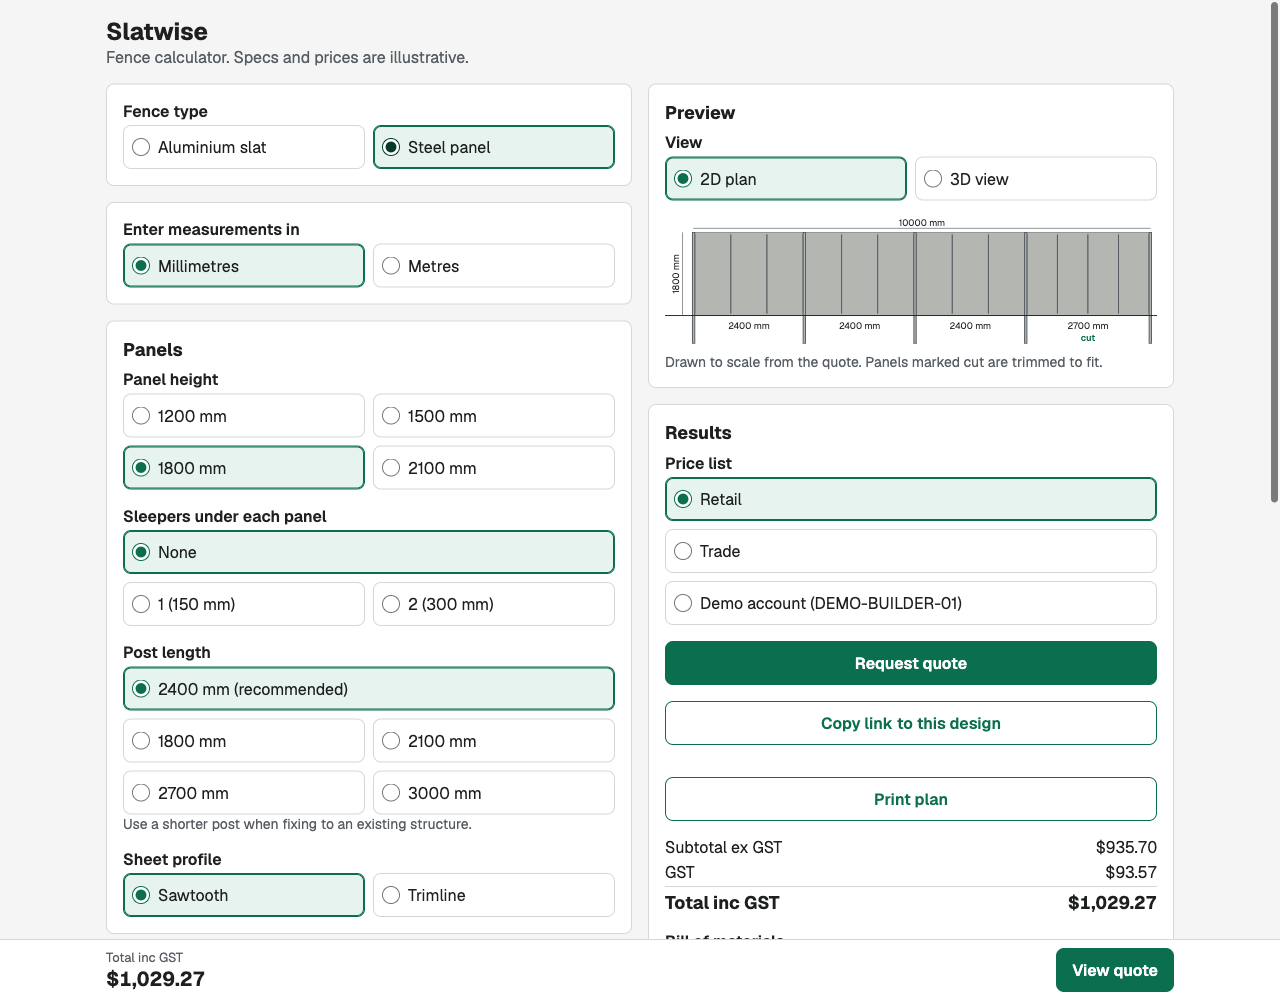
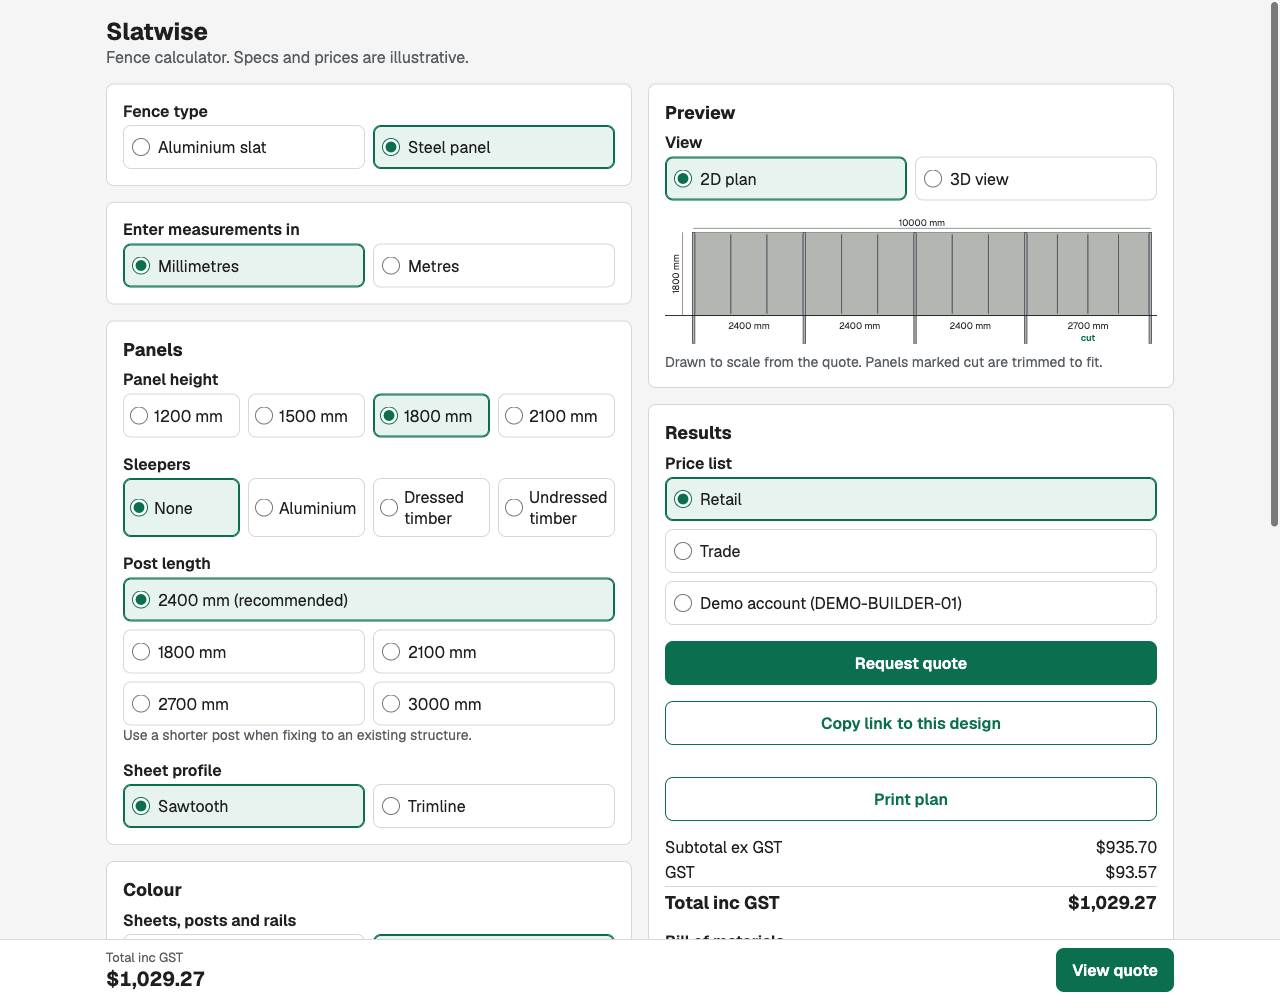
feat(ui): put short option groups on one line when they fit
Layout follows the space each group has rather than the screen width. The
recommended post now always gets its own row, fixing an overflow on phones with
a 2100 mm panel.

diff --git a/src/components/OptionGroup/OptionGroup.tsx b/src/components/OptionGroup/OptionGroup.tsx
@@ -12,7 +12,7 @@ interface OptionGroupProps<T extends string> {
   name: string;
   options: Option<T>[];
   value: T;
-  columns?: 1 | 2 | "half" | "row";
+  columns?: 1 | 2 | "half" | "lead" | "quarter" | "quarterWide" | "row";
   onChange: (value: T) => void;
 }
 
@@ -20,6 +20,9 @@ const LAYOUT_CLASSES = {
   1: styles.oneColumn,
   2: styles.twoColumns,
   half: styles.half,
+  lead: styles.lead,
+  quarter: styles.quarter,
+  quarterWide: styles.quarterWide,
   row: styles.row,
 };
 
@@ -35,33 +38,35 @@ export function OptionGroup<T extends string>({
   return (
     <fieldset className={styles.group}>
       <legend className={styles.legend}>{legend}</legend>
-      <div className={LAYOUT_CLASSES[columns]}>
-        {options.map((option) => (
-          <label
-            key={option.value}
-            className={
-              option.swatch
-                ? `${styles.option} ${styles.swatchOption}`
-                : styles.option
-            }
-          >
-            <input
-              type="radio"
-              name={name}
-              value={option.value}
-              checked={option.value === value}
-              onChange={() => onChange(option.value)}
-            />
-            {option.swatch && (
-              <span
-                className={styles.swatch}
-                style={{ "--swatch": option.swatch } as CSSProperties}
-                aria-hidden="true"
+      <div className={styles.container}>
+        <div className={LAYOUT_CLASSES[columns]}>
+          {options.map((option) => (
+            <label
+              key={option.value}
+              className={
+                option.swatch
+                  ? `${styles.option} ${styles.swatchOption}`
+                  : styles.option
+              }
+            >
+              <input
+                type="radio"
+                name={name}
+                value={option.value}
+                checked={option.value === value}
+                onChange={() => onChange(option.value)}
               />
-            )}
-            <span>{option.label}</span>
-          </label>
-        ))}
+              {option.swatch && (
+                <span
+                  className={styles.swatch}
+                  style={{ "--swatch": option.swatch } as CSSProperties}
+                  aria-hidden="true"
+                />
+              )}
+              <span>{option.label}</span>
+            </label>
+          ))}
+        </div>
       </div>
     </fieldset>
   );

diff --git a/e2e/calculator.spec.ts b/e2e/calculator.spec.ts
@@ -465,6 +465,49 @@ test.describe("steel panel fence", () => {
     await expectNoAxeViolations(page);
   });
 
+  test("short groups sit on one line when there's room", async ({ page }) => {
+    const rowsOf = (name: string) =>
+      page
+        .getByRole("group", { name, exact: true })
+        .locator("label")
+        .evaluateAll(
+          (labels) =>
+            new Set(labels.map((l) => l.getBoundingClientRect().top)).size,
+        );
+
+    await page.setViewportSize({ width: 1280, height: 900 });
+    await toPanel(page);
+    expect(await rowsOf("Panel height")).toBe(1);
+    expect(await rowsOf("Sleepers")).toBe(1);
+
+    await page.setViewportSize({ width: 1024, height: 768 });
+    await expect.poll(() => rowsOf("Sleepers")).toBe(2);
+    expect(await rowsOf("Panel height")).toBe(1);
+
+    await page.setViewportSize({ width: 768, height: 1024 });
+    await expect.poll(() => rowsOf("Panel height")).toBe(2);
+  });
+
+  test("no option overflows, at any panel height", async ({ page }) => {
+    for (const width of [320, 360]) {
+      await page.setViewportSize({ width, height: 800 });
+      await page.goto("/");
+      await toPanel(page);
+      const heights = page.getByRole("group", { name: "Panel height" });
+      for (const height of ["1200 mm", "1500 mm", "1800 mm", "2100 mm"]) {
+        await heights.getByRole("radio", { name: height }).check();
+        const overflowing = await page
+          .locator("label:has(input[type=radio])")
+          .evaluateAll((labels) =>
+            labels
+              .filter((l) => l.scrollWidth > l.clientWidth + 1)
+              .map((l) => l.textContent),
+          );
+        expect(overflowing).toEqual([]);
+      }
+    }
+  });
+
   test("size options fill the card in two columns", async ({ page }) => {
     await toPanel(page);
     const group = page.getByRole("group", { name: "Panel height" });

diff --git a/src/components/OptionGroup/OptionGroup.module.scss b/src/components/OptionGroup/OptionGroup.module.scss
@@ -38,6 +38,54 @@
   }
 }
 
+// The first option is too long for half a row, so it always gets a full one.
+// With an odd number left over, the last fills its row too.
+.lead {
+  display: grid;
+  grid-template-columns: repeat(2, minmax(0, 1fr));
+  gap: var(--space-2);
+
+  > :first-child,
+  > :last-child:nth-child(even) {
+    grid-column: 1 / -1;
+  }
+}
+
+// Four across when the group itself has room, which depends on the page layout
+// more than the screen: an iPad in portrait has a narrower column than a phone.
+.container {
+  container-type: inline-size;
+}
+
+@mixin four-across {
+  grid-template-columns: repeat(4, minmax(0, 1fr));
+
+  > label {
+    gap: 0.375rem;
+    padding-inline: 0.375rem;
+  }
+}
+
+.quarter,
+.quarterWide {
+  display: grid;
+  grid-template-columns: repeat(2, minmax(0, 1fr));
+  gap: var(--space-2);
+}
+
+// Thresholds measured against the labels each is used for.
+.quarter {
+  @container (min-width: 440px) {
+    @include four-across;
+  }
+}
+
+.quarterWide {
+  @container (min-width: 485px) {
+    @include four-across;
+  }
+}
+
 .row {
   display: flex;
   flex-wrap: wrap;

diff --git a/src/components/PanelPicker/PanelPicker.tsx b/src/components/PanelPicker/PanelPicker.tsx
@@ -55,7 +55,7 @@ export function PanelPicker({ design, dispatch }: PanelPickerProps) {
       <OptionGroup
         legend="Panel height"
         name="panel-height"
-        columns="half"
+        columns="quarter"
         options={HEIGHT_OPTIONS}
         value={String(design.fenceHeightMm)}
         onChange={(value) =>
@@ -65,7 +65,7 @@ export function PanelPicker({ design, dispatch }: PanelPickerProps) {
       <OptionGroup
         legend="Sleepers"
         name="sleeper-type"
-        columns="half"
+        columns="quarterWide"
         options={SLEEPER_TYPE_OPTIONS}
         value={design.sleeperType}
         onChange={(sleeperType) =>
@@ -91,7 +91,7 @@ export function PanelPicker({ design, dispatch }: PanelPickerProps) {
         <OptionGroup
           legend="Post length"
           name="post-length"
-          columns="half"
+          columns="lead"
           options={postOptions}
           value={
             design.postLengthMm === null

diff --git a/README.md b/README.md
@@ -113,7 +113,7 @@ Each panel takes 2 channel posts, 2 rails and 12 screws. Each run takes 2 steel 
 ## Quality
 
 - **432 unit and API tests** (Vitest), with the engine written test-first against hand-worked numbers.
-- **31 browser tests** (Playwright): reference runs for both products, axe across ten page states, keyboard-only quote requests, focus staying clear of the sticky bar, old share links, tampered quotes, and the 3D view's lazy loading, controls and fallbacks.
+- **33 browser tests** (Playwright): reference runs for both products, axe across ten page states, keyboard-only quote requests, focus staying clear of the sticky bar, old share links, tampered quotes, and the 3D view's lazy loading, controls and fallbacks.
 - **CI** runs formatting, lint, types and both test suites on every push.
 - **Lighthouse mobile on production, three runs:** Performance 99 to 100, Accessibility, Best Practices and SEO 100. Largest Contentful Paint 0.8 to 1.4 s, Cumulative Layout Shift 0.
 
